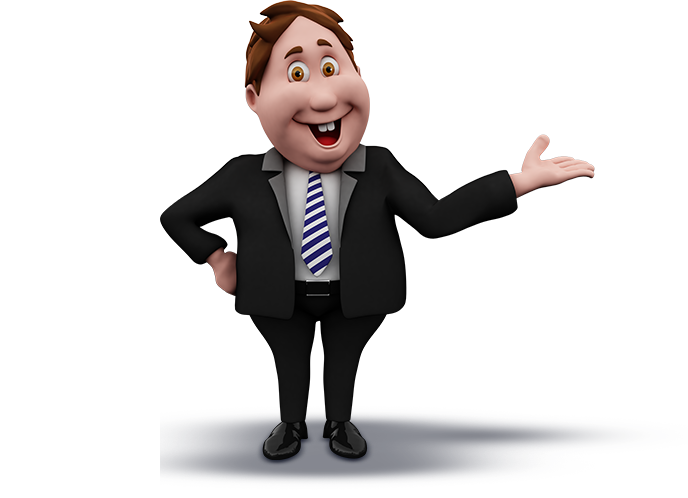
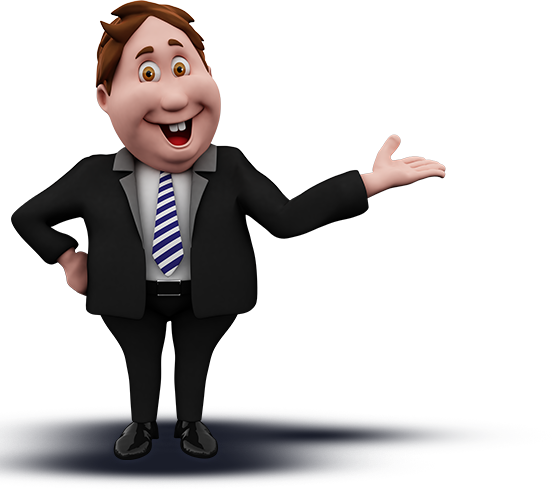
footer madpopo image set

diff --git a/src/css/main.css b/src/css/main.css
@@ -1071,7 +1071,7 @@ border-top: 0 !important;
   text-align: justify;
 }
 .wp_hostingFaqSection{
-  padding: 80px 0 310px;
+  padding: 80px 0 240px;
   height: 100%;
   position: relative;
 }
@@ -1081,6 +1081,9 @@ border-top: 0 !important;
     font-weight: 700;
     font-size: 38px;
     padding-bottom: 60px;
+}
+.wp_hostingFaqSection .wp_faqRow{
+  padding: 0 95px;
 }
 .wp_hostingFaqSection .wp_faqRow .wp_faq_Box{
   padding-bottom: 40px;
@@ -1381,9 +1384,11 @@ button:focus {
 
 .openToogle{
   display: block;
+  transition: all 32s ease-in-out;
 }
 .closeToogle{
   display: none;
+  transition: all 32s ease-in-out;
 }
 .fw-100 {
   font-weight: 100 !important;
@@ -9102,19 +9107,31 @@ color: #ff6a00;
   height: 100%;
   z-index: 1;
   position: absolute;
-  bottom: -77%;
-  left: -5%;
+  bottom: -82%;
+  left: 5%;
   pointer-events: none;
 } 
 .pose_1 img{
-  width: 30%;
+  width: 20%;
   height: auto;
   pointer-events: none;
 }
-
-.pose_1.homeFooImg{
-  bottom: -68%;
+.faq-section{
+  padding: 100px 0 220px;
 }
+.pose_1.homeFooImg{
+  bottom: -72%;
+}
+/* .madPopoEl::before{
+content: "";
+background-image: url(../../src/image/footer_pose-1.png);
+background-position: center;
+background-repeat: no-repeat;
+background-size: cover;
+position: absolute;
+right: 0;
+top: 0;
+} */
 .bg-wave-box-end-z1.newSVG{
   bottom: -80%;
 }

diff --git a/src/Components/Footer/Footer.jsx b/src/Components/Footer/Footer.jsx
@@ -5,7 +5,7 @@ import { fooLogo } from "../../Components/index";
 
 function Footer() {
   return (
-    <div className="dark-mode-texts footer-gradient-default overflow-hidden position-relative">
+    <div className="dark-mode-texts footer-gradient-default overflow-hidden position-relative madPopoEl">
       <svg
         className="bg-wave-box-end"
         

diff --git a/src/Components/FAQs/FAQ.jsx b/src/Components/FAQs/FAQ.jsx
@@ -17,8 +17,7 @@ function FAQ(props) {
   return (
   
       <div
-        className="faq-section pt-13 pt-lg-25 pb-15
-    pb-md-20 pb-lg-32 white-mode-texts
+        className="faq-section white-mode-texts
     with-planet-bg overflow-hidden position-relative
     border-top"
       >
